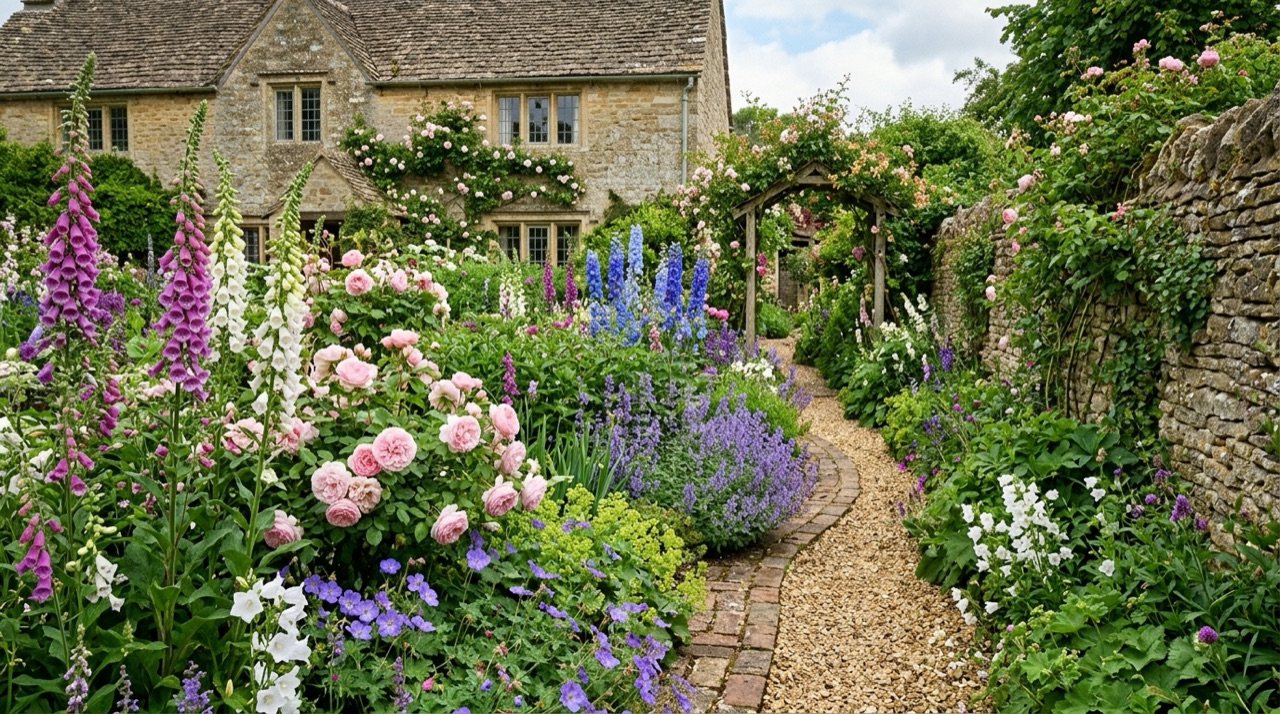
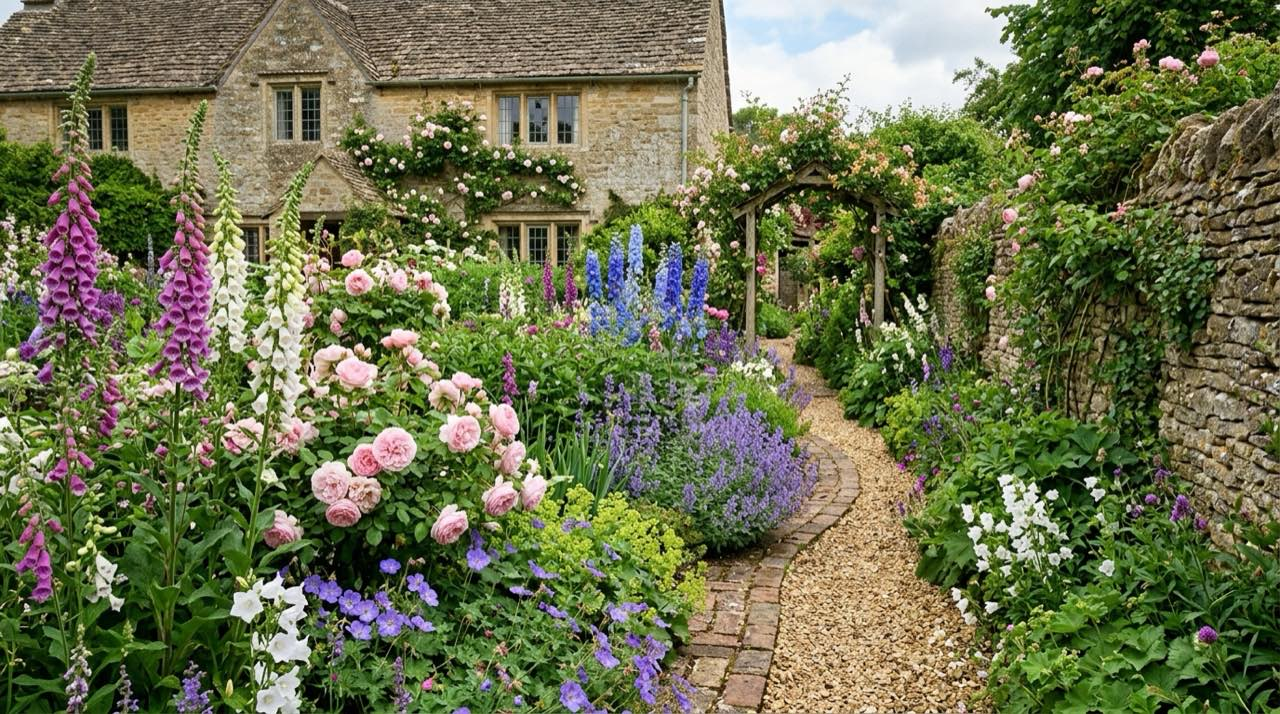
chore(seo): fix author title lengths, pre-render /sitemap and /rss, compress heavy images and link remaining orphan articles

diff --git a/src/data/articles.js b/src/data/articles.js
@@ -1220,7 +1220,7 @@ export const ARTICLES = [
       {
         "level": "h3",
         "heading": "Working Around Chimney Breasts and Bay Windows",
-        "body": "Brick chimney breasts project thirty-five to forty-five centimetres into older rooms, leaving two chimney breast alcoves roughly eighty to one hundred and ten centimetres wide. Rather than treating these recesses as dead space, use them for low cupboards or floating display shelving. Setting cupboard fronts flush with the chimney breast face produces a clean architectural line across the room.\n\nA bay window layout brings welcome natural light, but furniture placement requires care around perimeter heating. Radiators positioned beneath bay sills need a radiator air gap of at least fifteen centimetres between the heating panel and your upholstery. Leaving this gap ensures unhindered convection heat circulation into the room while protecting timber furniture frames from drying and warping."
+        "body": "Brick chimney breasts project thirty-five to forty-five centimetres into older rooms, leaving two chimney breast alcoves roughly eighty to one hundred and ten centimetres wide. Rather than treating these recesses as dead space, use them for low cupboards or floating display shelving. Setting cupboard fronts flush with the chimney breast face produces a clean architectural line across the room.\n\nA bay window layout brings welcome natural light, but furniture placement requires care around perimeter heating. Radiators positioned beneath bay sills need a radiator air gap of at least fifteen centimetres between the heating panel and your upholstery. Leaving this gap ensures unhindered convection heat circulation into the room while protecting timber furniture frames from drying and warping. Above bay radiators, dressed fabric window shades save floor space—learn tailored fabric lining widths in our [step-by-step Roman blind guide](/how-to-make-a-roman-blind-step-by-step-guide)."
       },
       {
         "level": "h2",
@@ -1697,7 +1697,7 @@ export const ARTICLES = [
       {
         "level": "h3",
         "heading": "Soft Chalky Finish Instead of Plastic Sheen",
-        "body": "Standard retail vinyl emulsion leaves a faint rubbery sheen when daylight hits the wall from an angle. Historic paint dries dead flat, usually carrying no more than 2% or 3% sheen. That chalky surface scatters natural daylight in every direction. If your room has old lime plaster, repaired settlement cracks or wavy walls, a dead flat finish disguises every lump and keeps the room quiet to the eye."
+        "body": "Standard retail vinyl emulsion leaves a faint rubbery sheen when daylight hits the wall from an angle. Historic paint dries dead flat, usually carrying no more than 2% or 3% sheen. That chalky surface scatters natural daylight in every direction. If your room has old lime plaster, repaired settlement cracks or wavy walls, a dead flat finish disguises every lump and keeps the room quiet to the eye. If planning bright neutral daylight across a studio or hobby room instead, check our workshop setup notes on [creating a collaborative DIY art studio](/creating-a-diy-art-club-space-for-collaborative-studios)."
       },
       {
         "level": "h3",
@@ -2329,7 +2329,7 @@ export const ARTICLES = [
       {
         "level": "h2",
         "heading": "Measuring Alcoves and Wall Clearances Before Ordering",
-        "body": "Before commissioning or buying any cabinet, measure your chimney breast alcoves, skirting board depths, and ceiling height carefully. Check door swing clearances near radiators and walkways so your new sideboard or freestanding cupboard sits comfortably within the room. Before fixing heavy cabinetry into older lime-plastered masonry walls, check the moisture and ventilation guidance from [Historic England](https://historicengland.org.uk/) so air can still circulate behind the backboard."
+        "body": "Before commissioning or buying any cabinet, measure your chimney breast alcoves, skirting board depths, and ceiling height carefully. Check door swing clearances near radiators and walkways so your new sideboard or freestanding cupboard sits comfortably within the room. Before fixing heavy cabinetry into older lime-plastered masonry walls, check the moisture and ventilation guidance from [Historic England](https://historicengland.org.uk/) so air can still circulate behind the backboard. Follow the exact joiner fixing sequence in our step-by-step guide on [choosing and installing a living room cabinet](/choosing-and-installing-a-cabinet-in-the-living-room)."
       },
       {
         "level": "h2",
@@ -3128,12 +3128,12 @@ export const ARTICLES = [
       {
         "level": "h2",
         "heading": "Choosing Deep Pan Drawers for Heavy Cast-Iron Cookware",
-        "body": "Modern fitted units require robust storage solutions for large pots and pans. Deep pan choices utilise full extension runners so you access every single item easily without bending down or reaching into dark awkward corner base units."
+        "body": "Modern fitted units require robust storage solutions for large pots and pans. Deep pan choices utilise full extension runners so you access every single item easily without bending down or reaching into dark awkward corner base units. Pull-out waste stations use the same runner geometry—see weight ratings in our guide on [choosing a built-in kitchen bin](/how-to-choose-the-best-kitchen-bin-for-built-in-cabinets)."
       },
       {
         "level": "h3",
         "heading": "Weight Capacities for Kitchen Pan Drawers Under Induction Hobs",
-        "body": "Heavy cast iron cookware places immense stress on standard runners. Always specify high capacity metal box systems rated for forty to seventy kilograms so your base units handle daily loads safely beneath modern glass induction cooktops. For accessible kitchen ergonomics and reach heights, refer to the kitchen layout guidance published by the [British Institute of Interior Design (BIID)](https://biid.org.uk/)."
+        "body": "Heavy cast iron cookware places immense stress on standard runners. Always specify high capacity metal box systems rated for forty to seventy kilograms so your base units handle daily loads safely beneath modern glass induction cooktops. Keep baking trays stored cleanly below while reading our airflow test on [using a non-stick oven liner mat safely](/how-to-choose-and-safely-use-a-liner-oven-mat-at-home). For accessible kitchen ergonomics and reach heights, refer to the kitchen layout guidance published by the [British Institute of Interior Design (BIID)](https://biid.org.uk/)."
       },
       {
         "level": "h2",
@@ -3556,7 +3556,7 @@ export const ARTICLES = [
       {
         "level": "h2",
         "heading": "Warm Earthy Heritage Colour Palettes for British Light",
-        "body": "British skies present a very specific atmospheric quality, shifting constantly from crisp silver to slate grey. Designing interiors for this climate requires pigments with genuine depth that respond gracefully to changing weather patterns without appearing dull or clinical.\n\nTraditional chalky emulsions absorb light differently than modern vinyl sheens, creating a powdery finish that ages beautifully over time. By selecting historic pigments derived from natural earth oxides, rooms acquire an immediate sense of permanence and architectural authority.\n\nConsider how evening lamplight interacts with your chosen wall colour before finalising sample pots on plaster. Deep ochres and muted olive greens truly come alive after dusk, wrapping period spaces in a comforting, cocooning envelope of reassuring warmth.",
+        "body": "British skies present a very specific atmospheric quality, shifting constantly from crisp silver to slate grey. Designing interiors for this climate requires pigments with genuine depth that respond gracefully to changing weather patterns without appearing dull or clinical.\n\nTraditional chalky emulsions absorb light differently than modern vinyl sheens, creating a powdery finish that ages beautifully over time. By selecting historic pigments derived from natural earth oxides, rooms acquire an immediate sense of permanence and architectural authority.\n\nConsider how evening lamplight interacts with your chosen wall colour before finalising sample pots on plaster. Deep ochres and muted olive greens truly come alive after dusk, wrapping period spaces in a comforting, cocooning envelope of reassuring warmth. For compact reception proportions, check our furniture clearance rules on [small living room layouts](/small-living-room-ideas-for-british-homes).",
         "bullets": [
           "Always paint large A4 sample boards and move them around different walls across the day.",
           "Opt for authentic mineral paints with high chalk content to diffuse natural daylight softly.",
@@ -4173,7 +4173,7 @@ export const ARTICLES = [
       {
         "level": "h3",
         "heading": "Low Level Floor and Table Lamps",
-        "body": "Table lamps placed on sideboards and lamp tables create low pools of comforting light around seating areas. Position table lamps at roughly six hundred millimetres from the carpet so the shade rim sits below eye level when you sit down.\n\nPair these with a directional floor lamp beside your favourite reading armchair. This gives you direct, focused light over a book or tablet screen without forcing you to turn on brighter overhead lights that disturb others in the room."
+        "body": "Table lamps placed on sideboards and lamp tables create low pools of comforting light around seating areas. Position table lamps at roughly six hundred millimetres from the carpet so the shade rim sits below eye level when you sit down.\n\nPair these with a directional floor lamp beside your favourite reading armchair. This gives you direct, focused light over a book or tablet screen without forcing you to turn on brighter overhead lights that disturb others in the room. Ground that seating zone visually underfoot with proper weave sizing from our guide on [choosing rugs for living room spaces](/choosing-rugs-for-living-room-spaces-with-style)."
       },
       {
         "level": "h3",
@@ -6218,7 +6218,7 @@ export const ARTICLES = [
       {
         "level": "h2",
         "heading": "Designing the Ideal Layout With Bedroom Furniture",
-        "body": "Selecting bedroom furniture requires a careful evaluation of spatial dimensions to balance circulation routes and storage capacities within standard British architectural footprints. A standard UK double room measuring 3500 by 2700 millimetres demands judicious placement of wardrobes and beds to prevent spatial congestion.\n\nLeaving a comfortable 600 millimetre walking perimeter around the primary bed frame ensures daily ease of movement and preserves a sense of airy volume.\n\nIntegrating bespoke wardrobes with a depth of 600 millimetres allows bulky winter coats and folded linens to be stored efficiently without encroaching on floor space.\n\nOpting for sliding doors rather than traditional hinged variants saves roughly 500 millimetres of swing clearance, making them ideal for compact Victorian terraced homes. Thoughtful positioning near natural window light enhances the visual warmth of timber finishes throughout the waking hours.\n\nLong-term durability depends on anchoring tall storage units securely to structural masonry or timber stud walls using heavy-duty brackets rated for dynamic loads. This prevents accidental tipping and ensures that drawers glide smoothly on concealed undermount runners equipped with soft-closing dampeners.\n\nRoutine maintenance involves checking wall fixings annually and wiping surfaces with a damp, lint-free cloth to eliminate abrasive dust accumulation.",
+        "body": "Selecting bedroom furniture requires a careful evaluation of spatial dimensions to balance circulation routes and storage capacities within standard British architectural footprints. A standard UK double room measuring 3500 by 2700 millimetres demands judicious placement of wardrobes and beds to prevent spatial congestion. Once core bed and wardrobe clearances sit square, layer bedding fabrics using our notes on [refined bedroom decor ideas for UK houses](/refined-bedroom-decor-ideas-for-timeless-british-houses).\n\nLeaving a comfortable 600 millimetre walking perimeter around the primary bed frame ensures daily ease of movement and preserves a sense of airy volume.\n\nIntegrating bespoke wardrobes with a depth of 600 millimetres allows bulky winter coats and folded linens to be stored efficiently without encroaching on floor space.\n\nOpting for sliding doors rather than traditional hinged variants saves roughly 500 millimetres of swing clearance, making them ideal for compact Victorian terraced homes. Thoughtful positioning near natural window light enhances the visual warmth of timber finishes throughout the waking hours.\n\nLong-term durability depends on anchoring tall storage units securely to structural masonry or timber stud walls using heavy-duty brackets rated for dynamic loads. This prevents accidental tipping and ensures that drawers glide smoothly on concealed undermount runners equipped with soft-closing dampeners.\n\nRoutine maintenance involves checking wall fixings annually and wiping surfaces with a damp, lint-free cloth to eliminate abrasive dust accumulation.",
         "image": "https://images.unsplash.com/photo-1649361811423-a55616f7ab11?crop=entropy&cs=tinysrgb&fit=max&fm=jpg&ixid=M3wxMDY2MTMwfDB8MXxzZWFyY2h8MXx8YmVzcG9rZSUyMGZpdHRlZCUyMHdhcmRyb2JlJTIwaW50ZXJpb3J8ZW58MHwwfHx8MTc4OTQxMjQ3Mnww&ixlib=rb-4.1.0&q=80&w=1080",
         "imageAlt": "Custom fitted wooden wardrobe showing precise internal joinery and shelving",
         "imageCaption": "Precision internal layout designed for optimal daily functionality"

diff --git a/src/utils/seo.js b/src/utils/seo.js
@@ -7,6 +7,26 @@ export const SITE_NAME = 'LUMAA HOME';
 export const DEFAULT_OG_IMAGE = 'https://images.unsplash.com/photo-1704040686413-2c607dbd2f06?auto=format&fit=crop&w=1600&q=85';
 export const DEFAULT_DESCRIPTION = 'British interior luxury, period architectural restorations, and bespoke joinery guides curated for UK design enthusiasts by Lumaa Home.';
 
+const AUTHOR_SHORT_ROLES = {
+  'sarah-jenkins': 'Joinery and Interior Editor',
+  'eleanor-vance': 'Architectural Restoration',
+  'oliver-sinclair': 'Joinery and Restoration',
+  'marcus-cole': 'Architect and Timber Craft',
+  'clara-davenport': 'Lighting and Interiors'
+};
+
+/** Build an SEO-friendly <= 60 character title tag for author pages */
+export function makeAuthorSeoTitle(author) {
+  if (!author) return SITE_NAME;
+  const brand = ` | ${SITE_NAME}`;
+  const shortRole = AUTHOR_SHORT_ROLES[author.id] || author.role || 'Editor';
+  const full = `${author.name} | ${shortRole}${brand}`;
+  if (full.length <= 60) return full;
+  const maxRole = Math.max(8, 60 - author.name.length - 3 - brand.length);
+  const trimmedRole = shortRole.slice(0, maxRole).replace(/\s+\S*$/, '').trim();
+  return trimmedRole ? `${author.name} | ${trimmedRole}${brand}` : `${author.name}${brand}`;
+}
+
 export function cleanMetaDescription(str) {
   if (!str) return DEFAULT_DESCRIPTION;
   let cleaned = str

diff --git a/src/components/AuthorPage.jsx b/src/components/AuthorPage.jsx
@@ -1,7 +1,7 @@
 import React, { useEffect } from 'react';
 import { AUTHORS, getAuthorById } from '../data/authors';
 import { ArrowLeft, MapPin, Globe, Award, Sparkles, ChevronRight, ExternalLink } from 'lucide-react';
-import { updatePageSeo, buildAuthorJsonLd } from '../utils/seo';
+import { updatePageSeo, buildAuthorJsonLd, makeAuthorSeoTitle } from '../utils/seo';
 
 export default function AuthorPage({ 
   authorId, 
@@ -21,7 +21,7 @@ export default function AuthorPage({
   useEffect(() => {
     if (author) {
       updatePageSeo({
-        title: `${author.name} | ${author.role} | LUMAA HOME`,
+        title: makeAuthorSeoTitle(author),
         description: author.metaDescription || author.shortDescription || author.bio,
         keywords: `${author.name}, ${author.role}, master joiner, timber craft, period woodwork restoration, lumaa home editor`,
         canonicalPath: `/author/${author.id}`,
